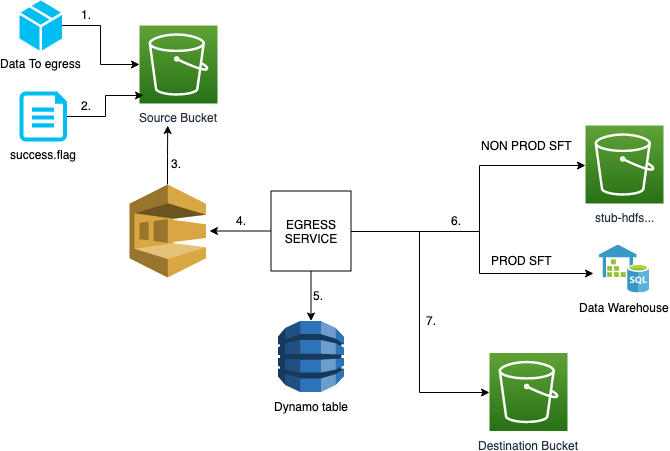
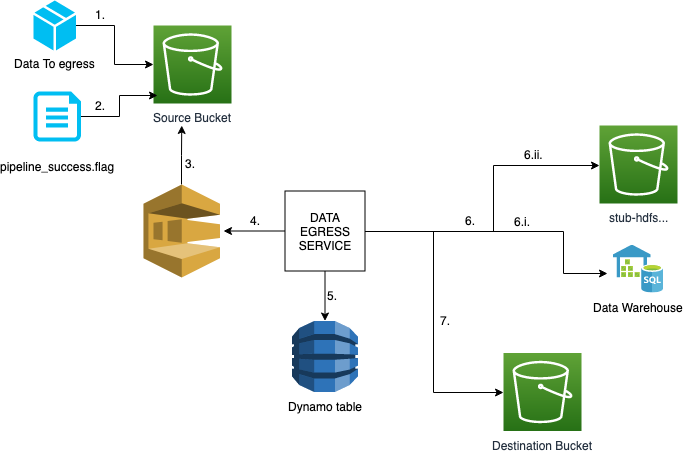
PR Comments

diff --git a/README.md b/README.md
@@ -28,11 +28,13 @@ a configuration DynamoDb item for the message and then sending files to a destin
 ![Data Egress Diagram](./Egress.png)
 
 1. Data is uploaded to source s3 bucket
-2. `success.flag` file is uploaded to same file path as data
-3. New SQS item added on new success.flag file upload with path to file as datasource
-4. Egress service pickes up jobs from SQS queue
+2. `pipeline_success.flag` file is uploaded to same file path as data
+3. New SQS item added on new `pipeline_success.flag` file upload with path to file as datasource
+4. Egress service picks up jobs from SQS queue
 5. Egress service queries Dynamo to get what action needs to be taken with the data (set in `data-egress.tf`)
-6. If `transfer_type` is SFT the data is sent to the corresponding datawarehouse location in prod or the `stub-hdfs-***` bucket in non-prod
+6. If `transfer_type` is SFT the data is copied to a local directory and picked up by the SFT Service
+   1. Prod environment: the data is sent to the corresponding data warehouse location
+   2. Non-prod environment: the data is sent to the `stub-hdfs-***` bucket
 7. If `transfer_type` is S3 the data is sent to the corresponding S3 location
 
 ### Database items
